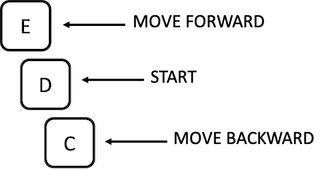
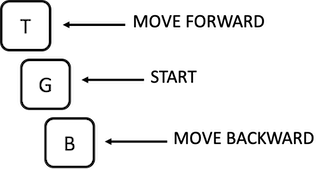
changes

Changed region(s): [[0.184, 0.7941, 0.2454, 0.8824], [0.1227, 0.4412, 0.184, 0.5588], [0.0613, 0.1176, 0.092, 0.2059]]

diff --git a/experiment.js b/experiment.js
@@ -96,8 +96,8 @@
   });
 
 // Global variables:
-var approach_key  = "E";
-var avoidance_key = "C";
+var approach_key  = "T";
+var avoidance_key = "B";
 
 // do something in the background
    // cursor helper functions -------------------------------------------------------------
@@ -1006,11 +1006,11 @@ var avoidance_key = "C";
     stimulus:
       "<h1 class ='custom-title'>Video Game Task</h1>" +
       "<p class='instructions'>At the beginning of each trial, you will see the 'O' symbol. This symbol " +
-      "indicates that you have to press the <b>START key</b> (namely the <b>D key</b>) to start the trial.</p>" +
+      "indicates that you have to press the <b>START key</b> (namely the <b>G key</b>) to start the trial.</p>" +
       "<p class='instructions'>Then, you will see a fixation cross (+) at the center of the screen, followed " +
       "by a first name or a face.</p>" +
       "<p class='instructions'>Your task is to move forward or backward by pressing the <b>MOVE FORWARD</b> " +
-      "(the <b>E key</b>) or the <b>MOVE BACKWARD</b> (the <b>C key</b>) key <strong>as fast as possible</strong>.</p>" +
+      "(the <b>T key</b>) or the <b>MOVE BACKWARD</b> (the <b>B key</b>) key <strong>as fast as possible</strong>.</p>" +
       "<p class='instructions'>For all of these actions, please only use the index of your dominant hand.</p>" +
       "<p class='continue-instructions'>Press <strong>space</strong> to start Task 1.</p>",
     choices: [32]
